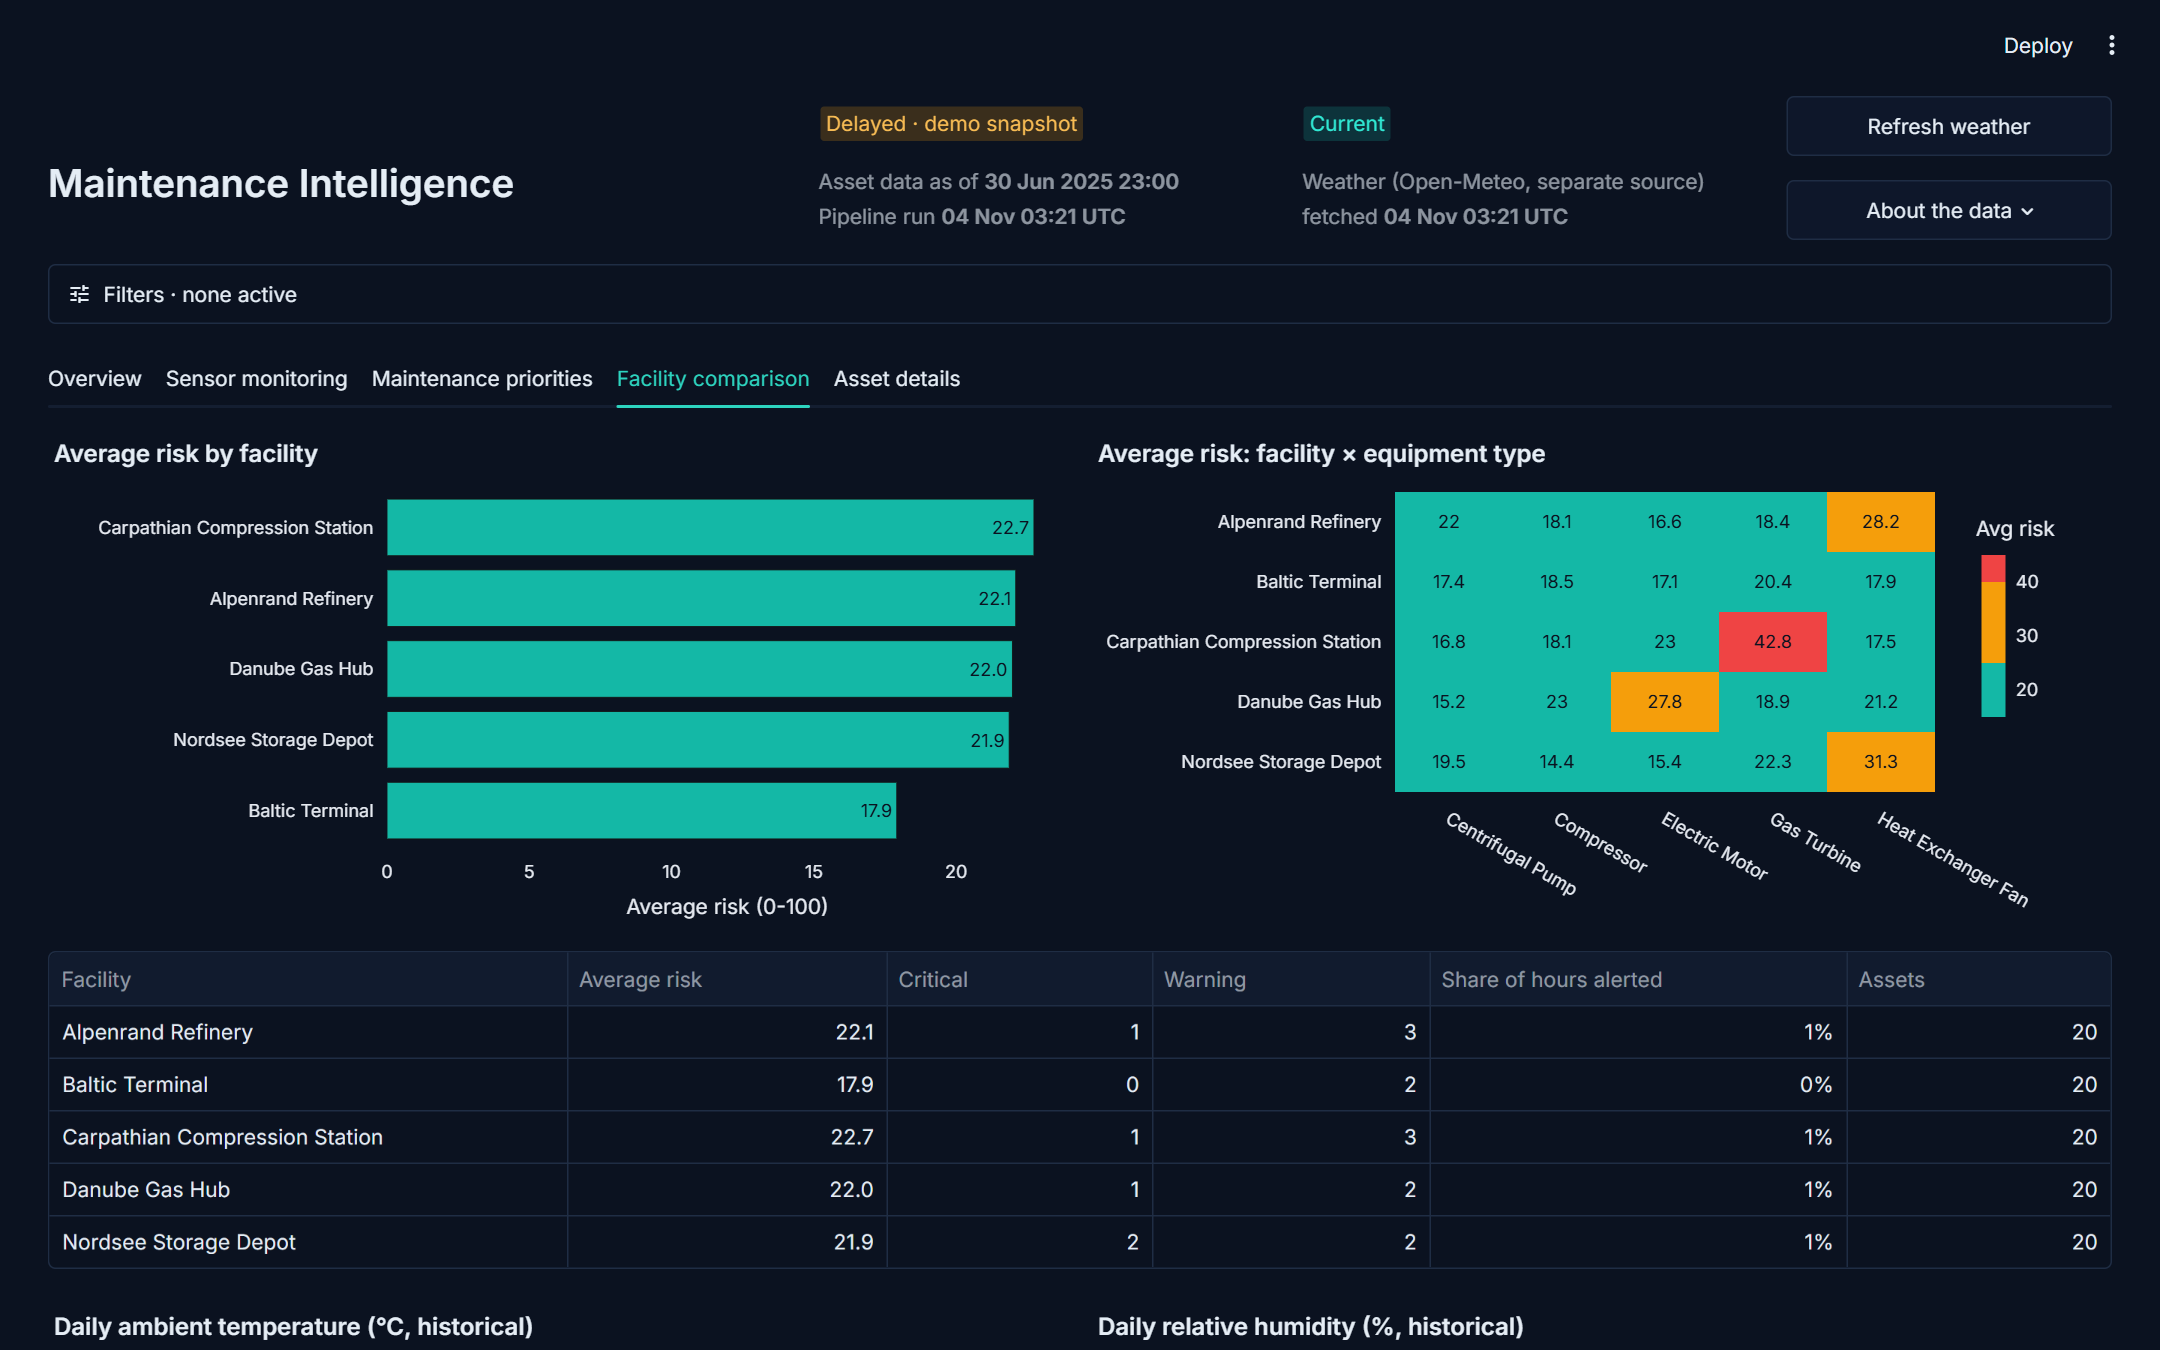
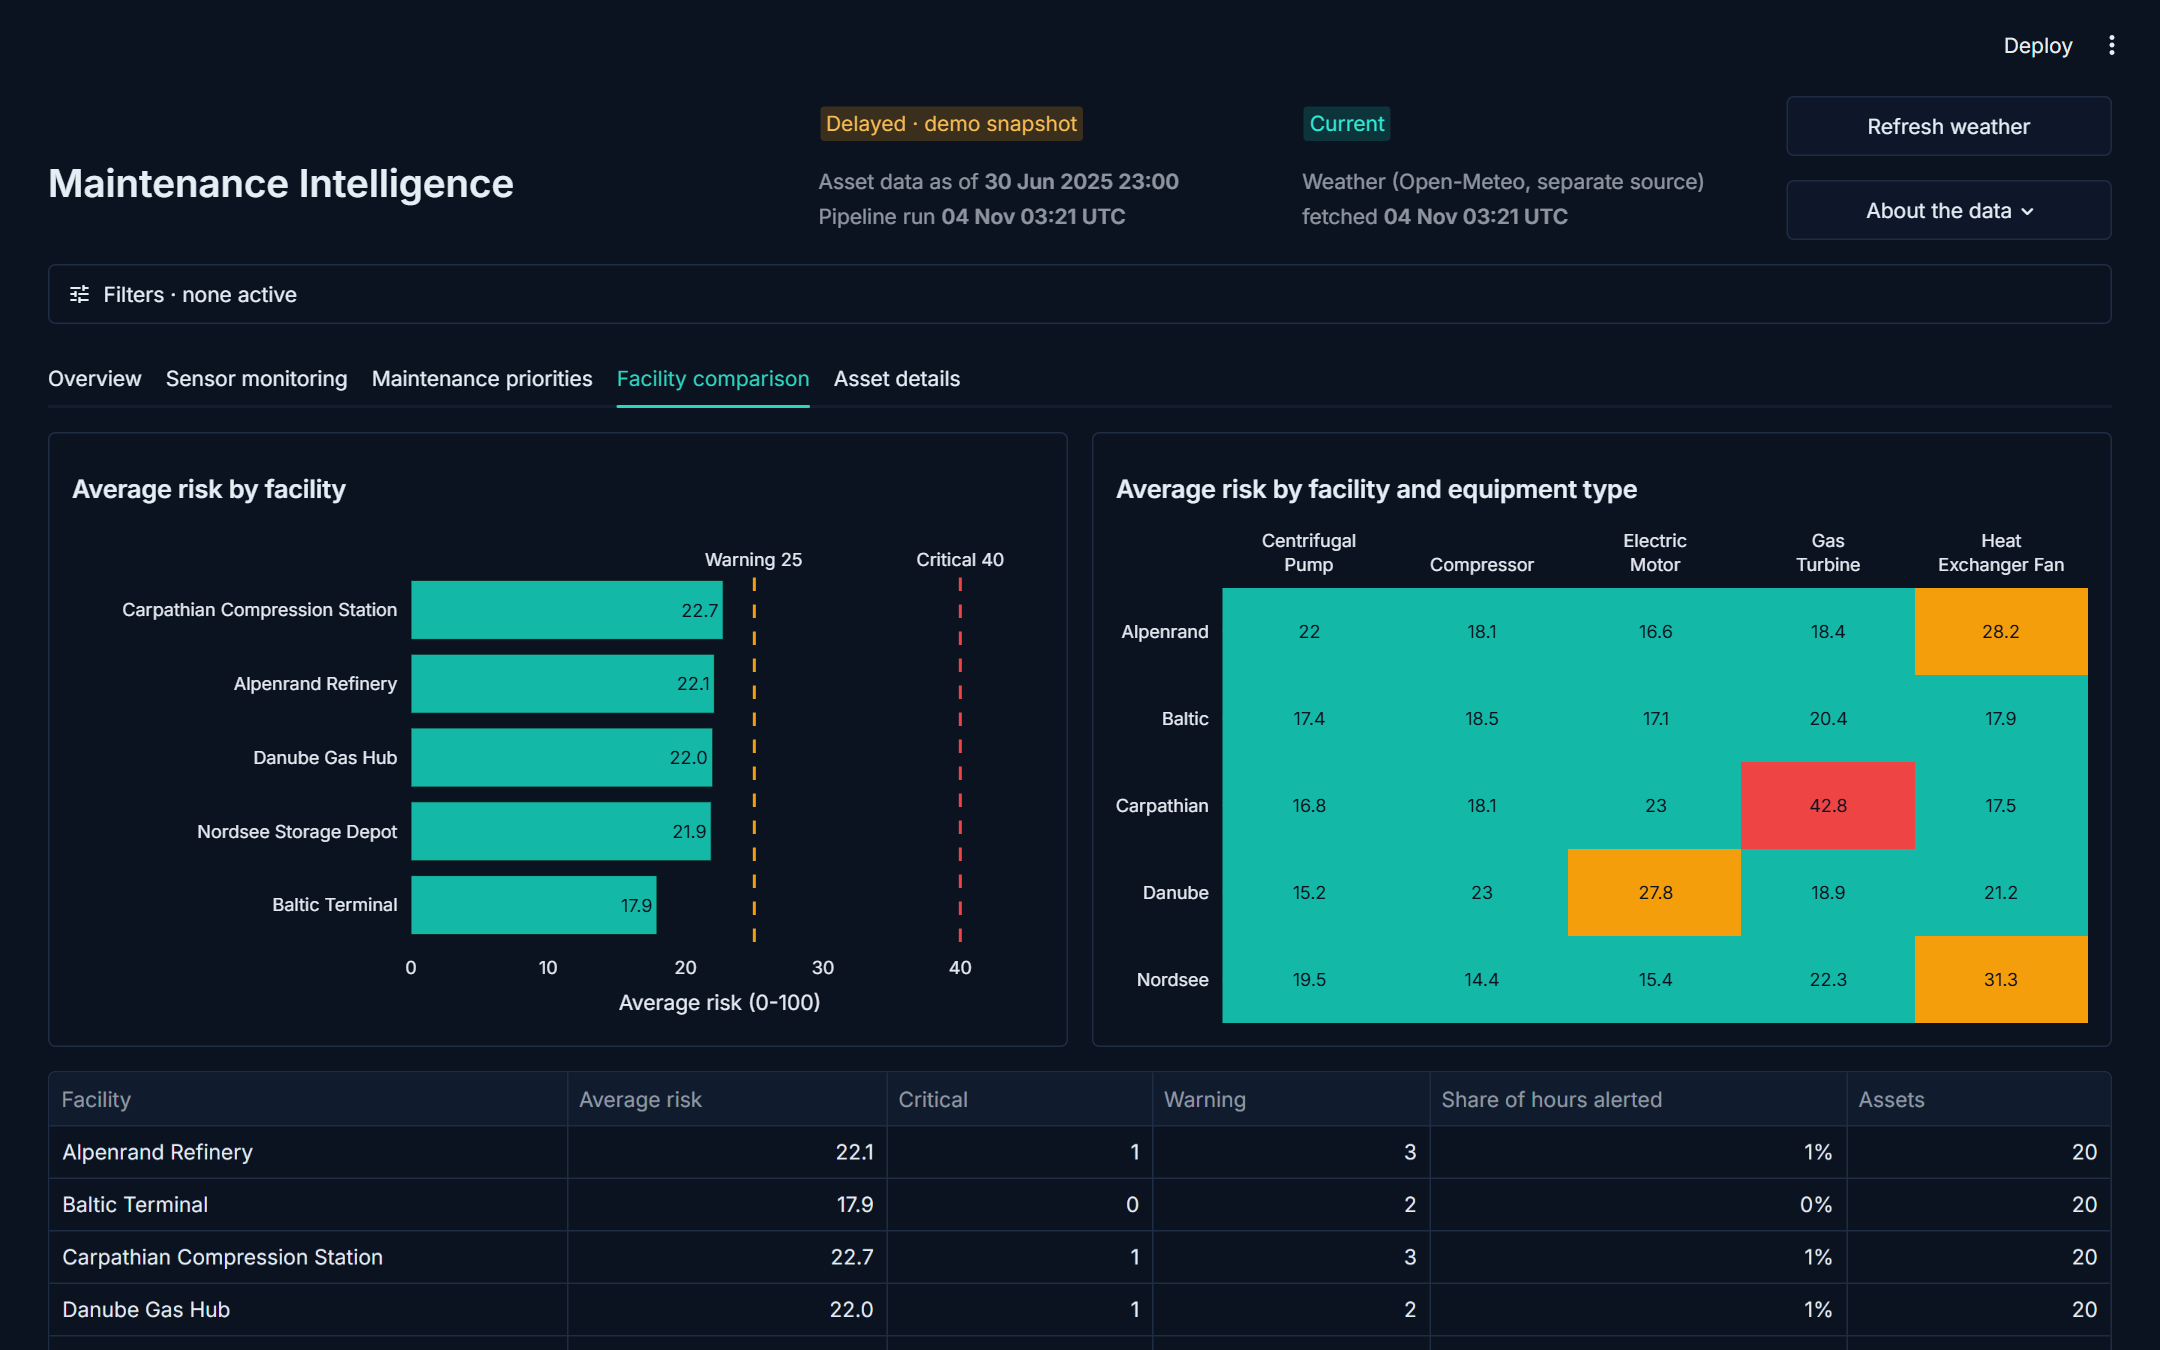
Facility comparison: framed charts, horizontal labels, threshold lines

diff --git a/app.py b/app.py
@@ -229,18 +229,30 @@ with tabs[3]:
     g = T.groupby("facility").agg(avg_risk=("risk", "mean"), critical=("level", lambda x: (x == "High").sum()),
                                   warning=("level", lambda x: (x == "Medium").sum()), alert_share=("alert_share", "mean"), assets=("asset_id", "count")).reset_index()
     a, b = st.columns(2)
-    a.plotly_chart(px.bar(g.sort_values("avg_risk"), x="avg_risk", y="facility", orientation="h", text_auto=".1f", color="avg_risk", color_continuous_scale=SCALE, range_color=(15, 45),
-                          title="Average risk by facility", labels={"avg_risk": "Average risk (0-100)", "facility": ""}).update_traces(textfont_color="#0b1220").update_layout(height=H, coloraxis_showscale=False), width="stretch")
-    b.plotly_chart(px.imshow(T.pivot_table(index="facility", columns="asset_type", values="risk", aggfunc="mean").round(1), text_auto=True, color_continuous_scale=SCALE, zmin=15, zmax=45,
-                             title="Average risk: facility × equipment type", labels={"color": "Avg risk", "x": "", "y": ""}, aspect="auto").update_traces(textfont_color="#0b1220").update_layout(height=H, margin=dict(l=10, r=30, t=40, b=90)), width="stretch")
-    table(g.round(2), alt="Facility summary: average risk, critical and warning assets, share of hours alerted", width="stretch", hide_index=True, column_config={
+    with a.container(border=True):
+        st.subheader("Average risk by facility")
+        show(px.bar(g.sort_values("avg_risk"), x="avg_risk", y="facility", orientation="h", text_auto=".1f", color="avg_risk", color_continuous_scale=SCALE, range_color=(15, 45),
+                    labels={"avg_risk": "Average risk (0-100)", "facility": ""})
+             .update_traces(textfont_color="#0b1220").add_vline(x=25, line_dash="dash", line_color="#f59e0b", annotation_text="Warning 25", annotation_position="top")
+             .add_vline(x=40, line_dash="dash", line_color="#ef4444", annotation_text="Critical 40", annotation_position="top")
+             .update_xaxes(range=[0, 45]).update_layout(height=H, coloraxis_showscale=False, margin=dict(l=0, r=10, t=30, b=0)), alt="Average risk by facility, with warning and critical limits")
+    with b.container(border=True):
+        st.subheader("Average risk by facility and equipment type")
+        pv = T.pivot_table(index="facility", columns="asset_type", values="risk", aggfunc="mean").round(1)
+        show(px.imshow(pv.rename(index=lambda s: s.split()[0], columns=lambda s: s.replace(" ", "<br>", 1)), text_auto=True, color_continuous_scale=SCALE, zmin=15, zmax=45,
+                       labels={"color": "Avg risk", "x": "", "y": ""}, aspect="auto").update_traces(textfont_color="#0b1220")
+             .update_xaxes(side="top", tickangle=0).update_layout(height=H, coloraxis_showscale=False, margin=dict(l=0, r=0, t=40, b=0)), alt="Average risk for each facility and equipment type")
+    table(g.round(2), alt="Facility summary: average risk, critical and warning assets, share of hours alerted", hide_index=True, column_config={
         "facility": "Facility", "avg_risk": st.column_config.NumberColumn("Average risk", format="%.1f"), "critical": "Critical", "warning": "Warning",
         "alert_share": st.column_config.NumberColumn("Share of hours alerted", format="percent"), "assets": "Assets"})
     w = D["weather"].merge(fac[["facility_id", "name"]], on="facility_id")
     w = w[w.name.isin(fsel)].groupby(["name", pd.Grouper(key="timestamp", freq="D")])[["ambient_temp_c", "humidity_pct"]].mean().reset_index()
     a, b = st.columns(2)
-    a.plotly_chart(px.line(w, x="timestamp", y="ambient_temp_c", color="name", title="Daily ambient temperature (°C, historical)", labels={"timestamp": "", "ambient_temp_c": "°C", "name": ""}).update_layout(legend=dict(orientation="h", y=-0.2)), width="stretch")
-    b.plotly_chart(px.line(w, x="timestamp", y="humidity_pct", color="name", title="Daily relative humidity (%, historical)", labels={"timestamp": "", "humidity_pct": "%", "name": ""}).update_layout(legend=dict(orientation="h", y=-0.2)), width="stretch")
+    for col, y, title, unit in [(a, "ambient_temp_c", "Daily ambient temperature (°C)", "°C"), (b, "humidity_pct", "Daily relative humidity (%)", "%")]:
+        with col.container(border=True):
+            st.subheader(title)
+            show(px.line(w, x="timestamp", y=y, color="name", labels={"timestamp": "", y: unit, "name": ""}).update_layout(height=H, margin=dict(l=0, r=10, t=10, b=0), legend=dict(orientation="h", y=-0.15)),
+                 alt=f"{title}, historical, per facility")
 with tabs[4]:
     a = st.selectbox("Asset", T.asset_id, format_func=lambda x: f"{x} · {T.set_index('asset_id').asset_name[x]}", key="d")
     row = T.set_index("asset_id").loc[a]
